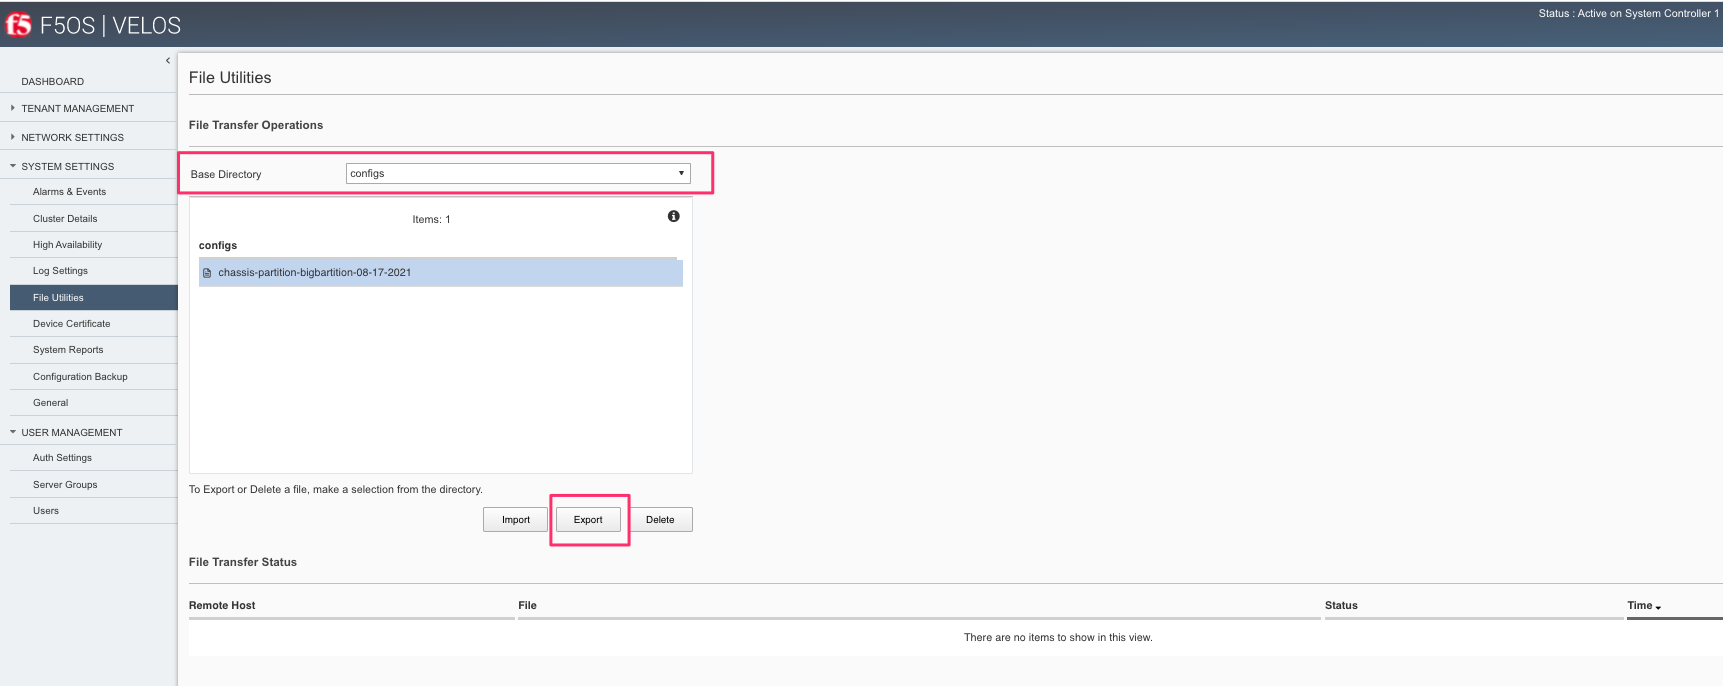
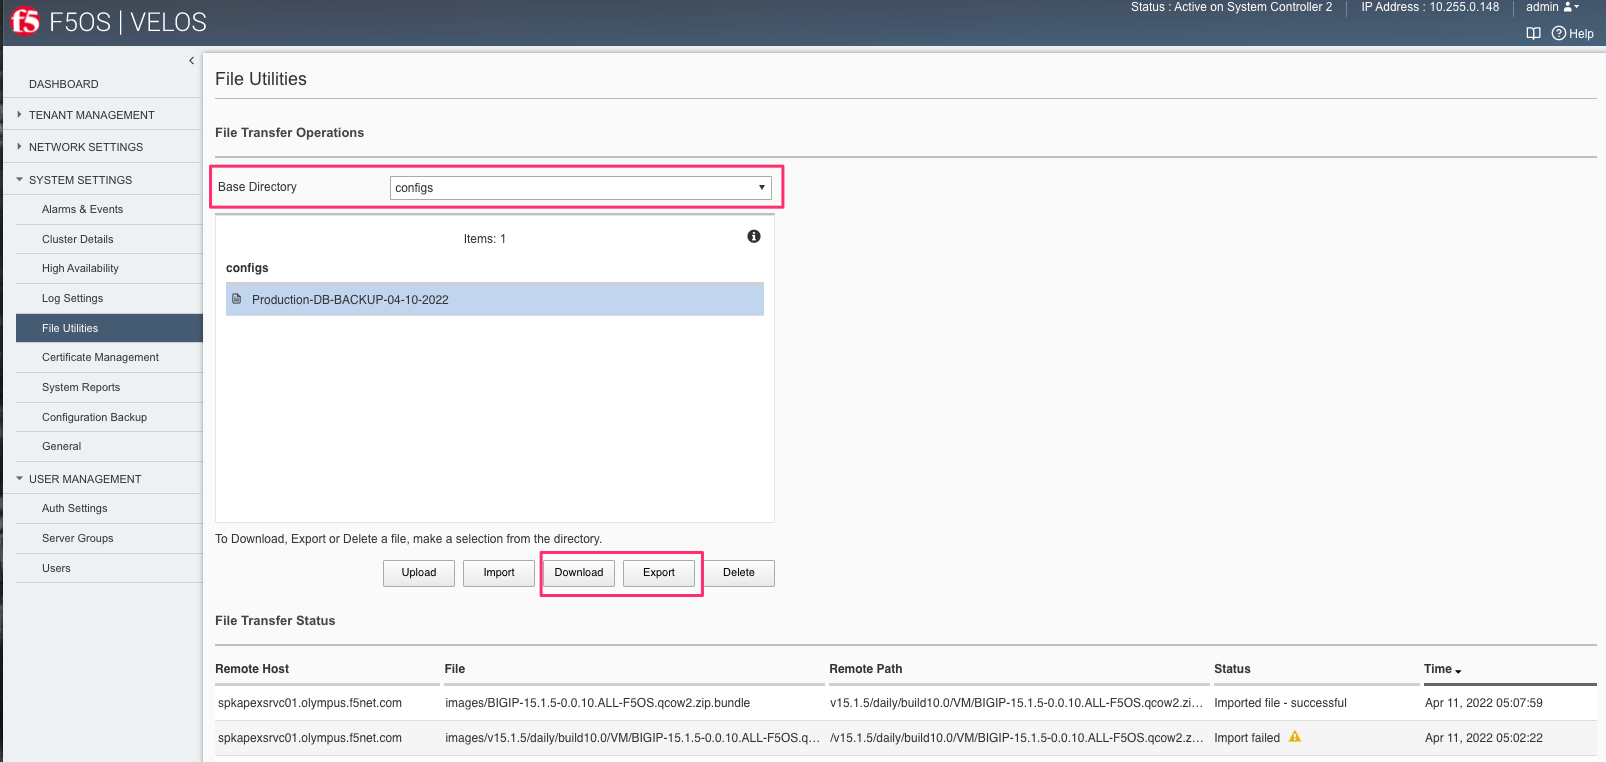
backup

Changed region(s): [[0.0, 0.0, 1.0, 0.7959], [0.0934, 0.7959, 1.0, 0.9796]]

diff --git a/docs/velos_f5os_configuration_backup_and_restore.rst b/docs/velos_f5os_configuration_backup_and_restore.rst
@@ -277,14 +277,15 @@ You can highlight the file and then click the **Export** button. You when then b
   :align: center
   :scale: 70%
 
-**Note: In the current release the exporting and importing the system database requires an external HTTPS server. Future releases will add more options for import/export that don’t rely on an external HTTPS server.**
+If you select *Download**, then an option will appear to download through your browser to your local client machine.
+
 
 Export Backup From the Chassis Partition CLI
 --------------------------------------------
 
-To transfer a file using the CLI use the **file list** command to see the contents of the **configs** directory. Note the previously saved file is listed. You will need to do this for all chassis partitions.
+To transfer a file using the CLI, use the **file list** command to see the contents of the **configs** directory. Note, the previously saved file is listed. You will need to repeat this for all chassis partitions in the VELOS system.
 
-To backup chassis partition Production:
+To export the backup for the chassis partition **Production**, first list the contents of the configs directory:
 
 .. code-block:: bash
 
@@ -295,13 +296,13 @@ To backup chassis partition Production:
     }
     Production-1# 
 
-To transfer the file from the CLI you can use the **file export** command. Note that the file export command requires a remote HTTPS server that the file can be posted to. 
+To transfer the file from the CLI, you can use the **file export** command. Note that the file export command requires either a remote HTTPS, SFPT, or SCP server that the file can be posted to. 
 
 .. code-block:: bash
 
-    Production-1# file export local-file configs/chassis-partition-bigbartition-08-17-2021 remote-host 10.255.0.142 remote-file /upload/upload.php username corpuser insecure
+    Production-1# file export local-file configs/chassis-partition-Production-08-17-2021 remote-host 10.255.0.142 remote-file /upload/upload.php username corpuser insecure
     Value for 'password' (<string>): ********
-    result File transfer is initiated.(configs/chassis-partition-bigbartition-08-17-2021)
+    result File transfer is initiated.(configs/chassis-partition-Production-08-17-2021)
     Production-1#
 
 You can use the CLI command **file transfer-status** to see if the file was copied successfully or not:
@@ -312,12 +313,12 @@ You can use the CLI command **file transfer-status** to see if the file was copi
     result 
     S.No.|Operation  |Protocol|Local File Path                                             |Remote Host         |Remote File Path                                            |Status            |Time                
     1    |Export file|HTTPS   |configs/3-20-2021-Production-backup                       |10.255.0.142        |/upload/upload.php                                          |Failed to open/read local data from file/application|Fri Aug 27 20:05:34 2021
-    2    |Export file|HTTPS   |configs/chassis-partition-bigbartition-08-17-2021           |10.255.0.142        |/upload/upload.php                                          |         Completed|Fri Aug 27 20:06:22 2021
+    2    |Export file|HTTPS   |configs/chassis-partition-Production-08-17-2021           |10.255.0.142        |/upload/upload.php                                          |         Completed|Fri Aug 27 20:06:22 2021
 
     Production-1# 
 
 
-If you do not have a remote HTTPS server with the proper access to POST files then you can copy the chassis partition backups from the system controller shell. You’ll need to login to the system controllers shell using the root account. Once logged in list the contents of the **/var/F5** directory. You’ll notice partition<ID> directories, where <ID> equals the ID assigned to each partition.
+If you do not have a remote HTTPS, SCP, or SFTP server with the proper access to POST files, then you can copy the chassis partition backups from the system controller shell (Note, there is no shelll access via the chassis partition IP). You’ll need to login to the system controllers shell using the root account. Once logged in list the contents of the **/var/F5** directory. You’ll notice **partition<ID>** directories, where <ID> equals the ID assigned to each partition.
 
 .. code-block:: bash
 
@@ -335,7 +336,7 @@ If you do not have a remote HTTPS server with the proper access to POST files th
     drwxr-xr-x.  3 root root 4096 Feb  9 16:08 sirr
     [root@controller-2 ~]# 
 
-The backup files for each partition are stored in the **/var/F5/partition<ID>/configs** directory. You will need to copy off each chassis partitions backup file. You can use SCP to do this from the shell.
+The backup files for each partition are stored in the **/var/F5/partition<ID>/configs** directory. You will need to copy off each chassis partition backup file. You can use SCP to do this from the shell.
 
 .. code-block:: bash
 
@@ -355,12 +356,12 @@ Below is an example using SCP to copy off the backup file from partition ID 4, y
     3-20-2021-Production-backup                                                             100%   46KB  23.7MB/s   00:00    
     [root@controller-2 ~]# 
     
-Now repeat the same steps for chassis partition development. 
+Now repeat the same steps for each chassis partition in the system. 
 
 Export Backup From the Chassis Partition API
 --------------------------------------------
 
-Each chassis partition in the system needs to be backed up independently. Below is an API example of backing up the chassis partition development. Note the API call is sent to the chassis partition IP address. Currently a remote HTTPS server is required to export the copy of the configuration backup.
+Each chassis partition in the system needs to be backed up independently. Below is an API example of exportinh the backuo up the chassis partition **Development**. Note the API call is sent to the chassis partition IP address. Currently a remote HTTPS, SCP, or SFTP server is required to export the copy of the configuration backup.
 
 .. code-block:: bash
 
@@ -384,7 +385,7 @@ To check on the status of the file export you can use the following API call to 
 
   POST https://{{Chassis1_development_IP}}:8888/api/data/f5-utils-file-transfer:file/transfer-status
 
-In the body of the post use the following json payload:
+In the body of the post use the following json payload to denote the path and file name to be exported.
 
 .. code-block:: json
 
@@ -392,7 +393,7 @@ In the body of the post use the following json payload:
         "f5-utils-file-transfer:file-name": "configs/development-DB-BACKUP{{currentdate}}"
     }
 
-You will end up seeing a status similar to the output below.
+A status similar to the output below will be seen.
 
 .. code-block:: json
 
@@ -402,7 +403,7 @@ You will end up seeing a status similar to the output below.
         }
     }
 
-Repeat this for other partitions in the system.
+Repeat this step for all the other chassis partitions in the system.
 
 Backing up Tenants
 ==================
@@ -414,7 +415,7 @@ Resetting the System (Not for Production)
 
 For a proof-of-concept test, this section will provide steps to wipe out the entire system configuration in a graceful manner. This is not intended as a workflow for production environments, as you would not typically be deleting entire system configurations, instead you would be restoring pieces of the configuration in the case of failure. 
 
-The first step would be to ensure you have completed the previous sections, and have created backups for the system controllers, each chassis partition, and each tenant. These backups should have been copied out of the VELOS system to a remote HTTPS server so that they can be used to restore to the system after it has been reset.
+The first step would be to ensure you have completed the previous sections, and have created backups for the system controllers, each chassis partition, and each tenant. These backups should have been copied out of the VELOS system to a remote server so that they can be copied back into the system and used to restore after it has been reset.
 
 
 Remove Partitions and Reset Controller via CLI
@@ -422,21 +423,21 @@ Remove Partitions and Reset Controller via CLI
 
 The first step is to ensure each chassis partition’s ConfD database has been **reset-to-default**. This will wipe out all tenant configurations and networking as well as all the system parameters associated with each chassis partition.
 
-For the development:
+For the Development chassis partition:
 
 .. code-block:: bash
 
-    development-1# config
-    development-1(config)# system database reset-to-default proceed  
+    Development-1# config
+    Development-1(config)# system database reset-to-default proceed  
     Value for 'proceed' [no,yes]: yes
     result Database reset-to-default successful.
-    development-1(config)# 
+    Development-1(config)# 
     System message at 2021-03-02 22:51:54...
     Commit performed by admin via tcp using cli.
-    development-1(config)# 
+    Development-1(config)# 
 
 
-For the Production:
+For the Production chassis partition:
 
 .. code-block:: bash
 
@@ -450,7 +451,7 @@ For the Production:
     Commit performed by admin via tcp using cli.
     Production-1(config)# 
 
-Once the partition configurations have been cleared, you’ll need to login to the system controller. You’ll need to put all slots back into the **none** partition and **commit** the changes if making changes via the CLI.
+Once the partition configurations have been cleared, you’ll need to login to the system controller CLI via the floating IP address. You’ll need to put all slots back into the **none** partition and **commit** the changes. This will allow the partitions to be deleted in the next step.
 
 .. code-block:: bash
 
@@ -460,27 +461,26 @@ Once the partition configurations have been cleared, you’ll need to login to t
     syscon-2-active(config-slot-1-3)#
 
 
-Then remove the partitions from the system controller. In this case we will remove the chassis partitions called **Production** and **development**.
+Then remove the partitions from the system controller. In this case we will remove the chassis partitions called **Production** and **Development**.
 
 .. code-block:: bash
 
     syscon-2-active(config)# no partitions partition Production 
-    syscon-2-active(config)# no partitions partition development 
+    syscon-2-active(config)# no partitions partition Development 
     syscon-2-active(config)# commit 
     Commit complete.
     syscon-2-active(config)# 
 
 
-For the final step reset the system controllers ConfD database. This will essentially wipe out all partitions and all of the system controller configuration essentially setting it back to factory default.
+For the final step, reset the system controllers ConfD database. This will essentially wipe out all partitions and all of the system controller configuration essentially setting it back to factory default.
 
-Set controller:
 
 .. code-block:: bash
 
     syscon-2-active(config)# system database config reset-default-config true
     syscon-2-active(config)# commit
 
-Once this has been committed both controllers need to be rebooted manually. Login to the active controller and enter config mode and then issue the **system reboot controllers controller standby** command, this will reboot the standby controller first. Run the same command again but this time reboot the **active** controller. 
+Once this has been committed, both controllers need to be rebooted manually. Login to the active controller and enter **config** mode, and then issue the **system reboot controllers controller standby** command, this will reboot the standby controller first. Run the same command again but this time reboot the **active** controller. 
 
 .. code-block:: bash
 
@@ -488,18 +488,19 @@ Once this has been committed both controllers need to be rebooted manually. Logi
 
     syscon-1-active(config)# system reboot controllers controller active
 
-The system controllers should reboot, and their configurations will be completely wiped clean. You will need ot login via the CLI to restore out-of-band networking connectivity, and then the previously archived configurations can be copied back and restored.
-
+The system controllers should reboot, and their configurations will be completely wiped clean. You will need to login via the console / CLI to restore out-of-band networking connectivity, and then the previously archived configurations can be copied back and restored.
 
 
 Remove Partitions and Reset Controller via API
 ----------------------------------------------
 
-There is no webUI support for this functionality currently. To do this via API call you will need to send the following API call to the chassis partition IP address. Below is an example sending the database reset to default command to the chassis partition called Production:
+There is no webUI support for this functionality currently. To do this via API call you will need to send the following API call to the chassis partition IP address. Below is an example sending the database reset-to-default command to the chassis partition called Production:
 
 .. code-block:: bash
 
     POST https://{{Chassis1_Production_IP}}:8888/restconf/data/openconfig-system:system/f5-database:database/f5-database:reset-to-default
+
+The body of the API call must have the following:
 
 .. code-block:: json
 
@@ -507,7 +508,7 @@ There is no webUI support for this functionality currently. To do this via API c
     "f5-database:proceed": "yes"
     }
 
-Repeat this for the other chassis partitions in the system, in this case send and API call to the IP address of the chassis partition development:
+Repeat this for the other chassis partitions in the system, in this case send and API call to the IP address of the chassis partition Development:
 
 .. code-block:: bash
 
@@ -519,7 +520,7 @@ Repeat this for the other chassis partitions in the system, in this case send an
     "f5-database:proceed": "yes"
     }
 
-First send an API call to the system controller IP address to re-assign any slots that were previously part of a chassis partition to the partition none. In the example below slots 1-2 were assigned to Production and slot3 was assigned to development. All 3 slots will be moved to the partition none. 
+Next, send an API call to the system controller IP address to re-assign any slots that were previously part of a chassis partition to the partition **none**. In the example below slots 1-2 were assigned to the chassis partition Production and slot3 was assigned to the chassis partition development. All 3 slots will be moved to the partition none. 
 
 
 .. code-block:: bash
@@ -550,13 +551,13 @@ First send an API call to the system controller IP address to re-assign any slot
         }
     }
 
-Next Delete any chassis partitions that were configured. In this case both **Production** and **smallpartiion** will be deleted by sending API calls to the system controller IP address:
+ONce the slots have been removed form the partitions, you can Delete any chassis partitions that were configured. In this case both **Production** and **Development** chassis partitions will be deleted by sending API calls to the system controller IP address:
 
 .. code-block:: bash
 
     DELETE https://{{Chassis1_System_Controller_IP}}:8888/restconf/data/f5-system-partition:partitions/partition=Production
 
-    DELETE https://{{Chassis1_System_Controller_IP}}:8888/restconf/data/f5-system-partition:partitions/partition=development
+    DELETE https://{{Chassis1_System_Controller_IP}}:8888/restconf/data/f5-system-partition:partitions/partition=Development
 
 The last step in the reset procedure is to set the system controllers ConfD database back to default.
 
@@ -570,7 +571,7 @@ The last step in the reset procedure is to set the system controllers ConfD data
     "f5-database:reset-default-config": "true"
     }
 
-The system controllers should reboot, and their configurations will be completel wiped clean. You will need ot login via the CLI to restore out-of-band networking connectivity, and then the previously archived configurations can be copied back and restored.    
+The system controllers should reboot, and their configurations will be completely wiped clean. You will need to login via the CLI to restore out-of-band networking connectivity, and then the previously archived configurations can be copied back and restored.    
 
 Remove Partitions and Reset Controller via webUI
 ------------------------------------------------
